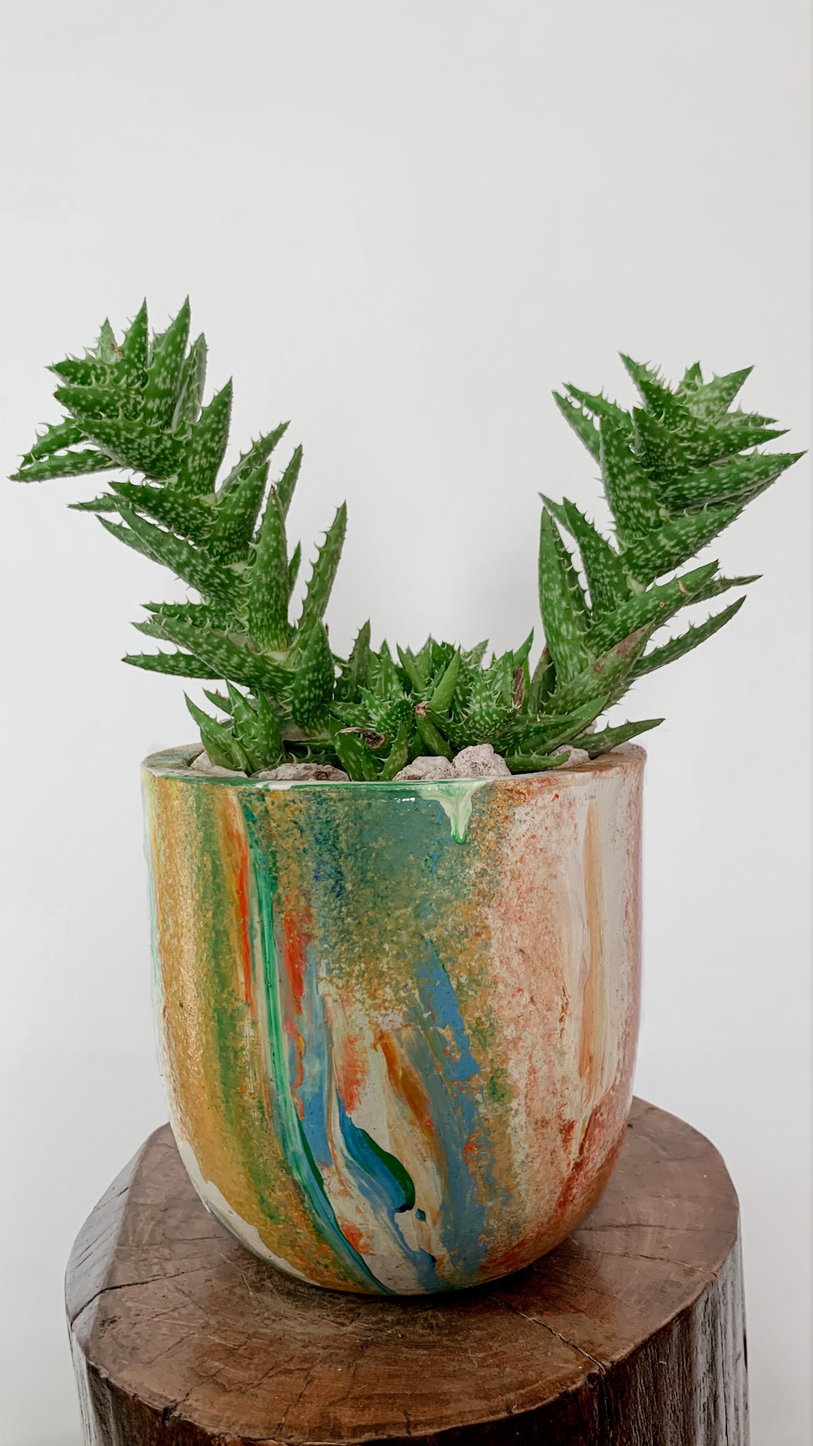
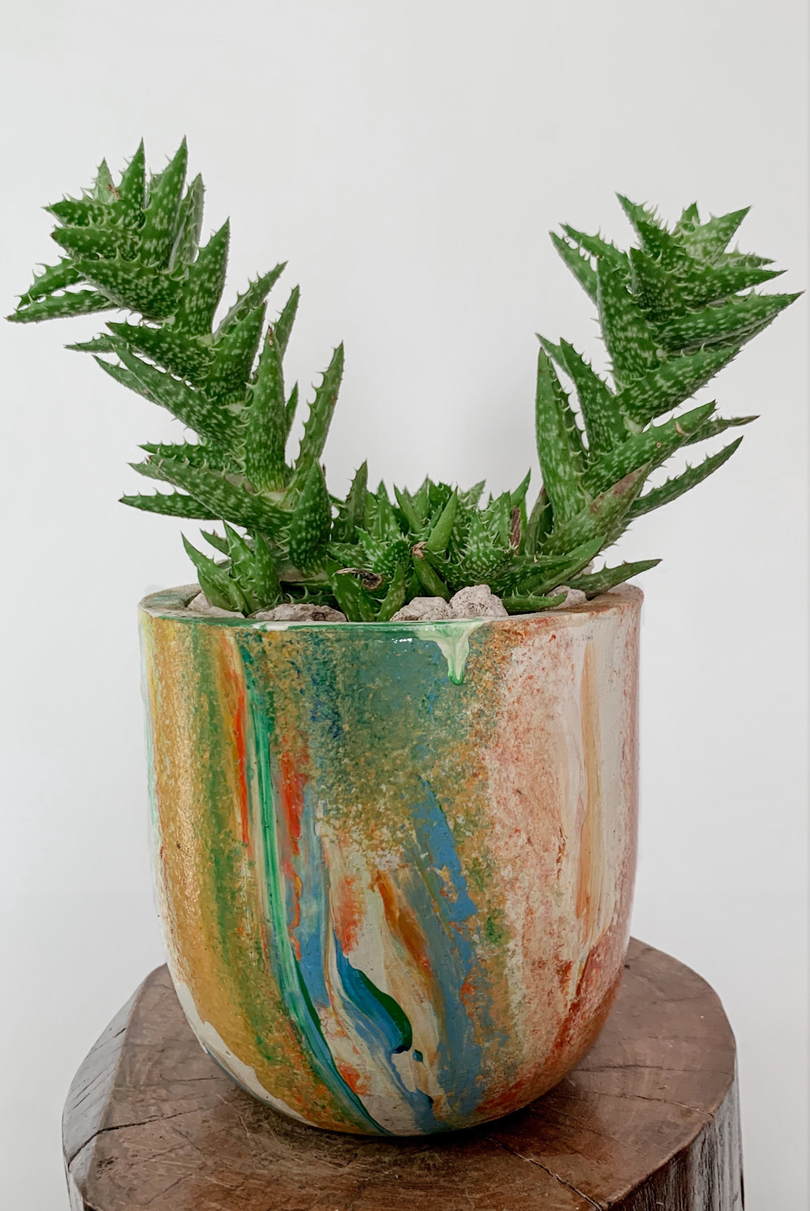
gallery fix

diff --git a/css/stylesheet.css b/css/stylesheet.css
@@ -1842,16 +1842,16 @@ body.product-modal {
 
 .plant-wrapper {
   display: grid;
-  padding-top: 5vh;
+  /* padding-top: 5vh; */
   grid-template-columns: 100vw;
-  grid-template-rows: fit-content(150vh) auto;
+  grid-template-rows: fit-content(120vh) auto;
 }
 
 .product-wrapper {
   padding-top: 15vh;
   display: grid;
   grid-template-columns: 100vw;
-  grid-template-rows: auto fit-content(800px);
+  grid-template-rows: max-content fit-content(800px);
   margin: 0 auto;
   align-items: center;
   justify-items: center;
@@ -1919,6 +1919,7 @@ body.product-modal {
 
 .photo-m {
   display: block;
+  max-height: 100vh;
   box-shadow: var(--shadow2);
 }
 
@@ -2052,7 +2053,7 @@ h3 {
 
   .product-gallery {
     grid-template-columns: fit-content(150px) auto;
-    grid-template-rows: 70vh;
+    grid-template-rows: auto;
     margin: 0 auto;
   }
 
